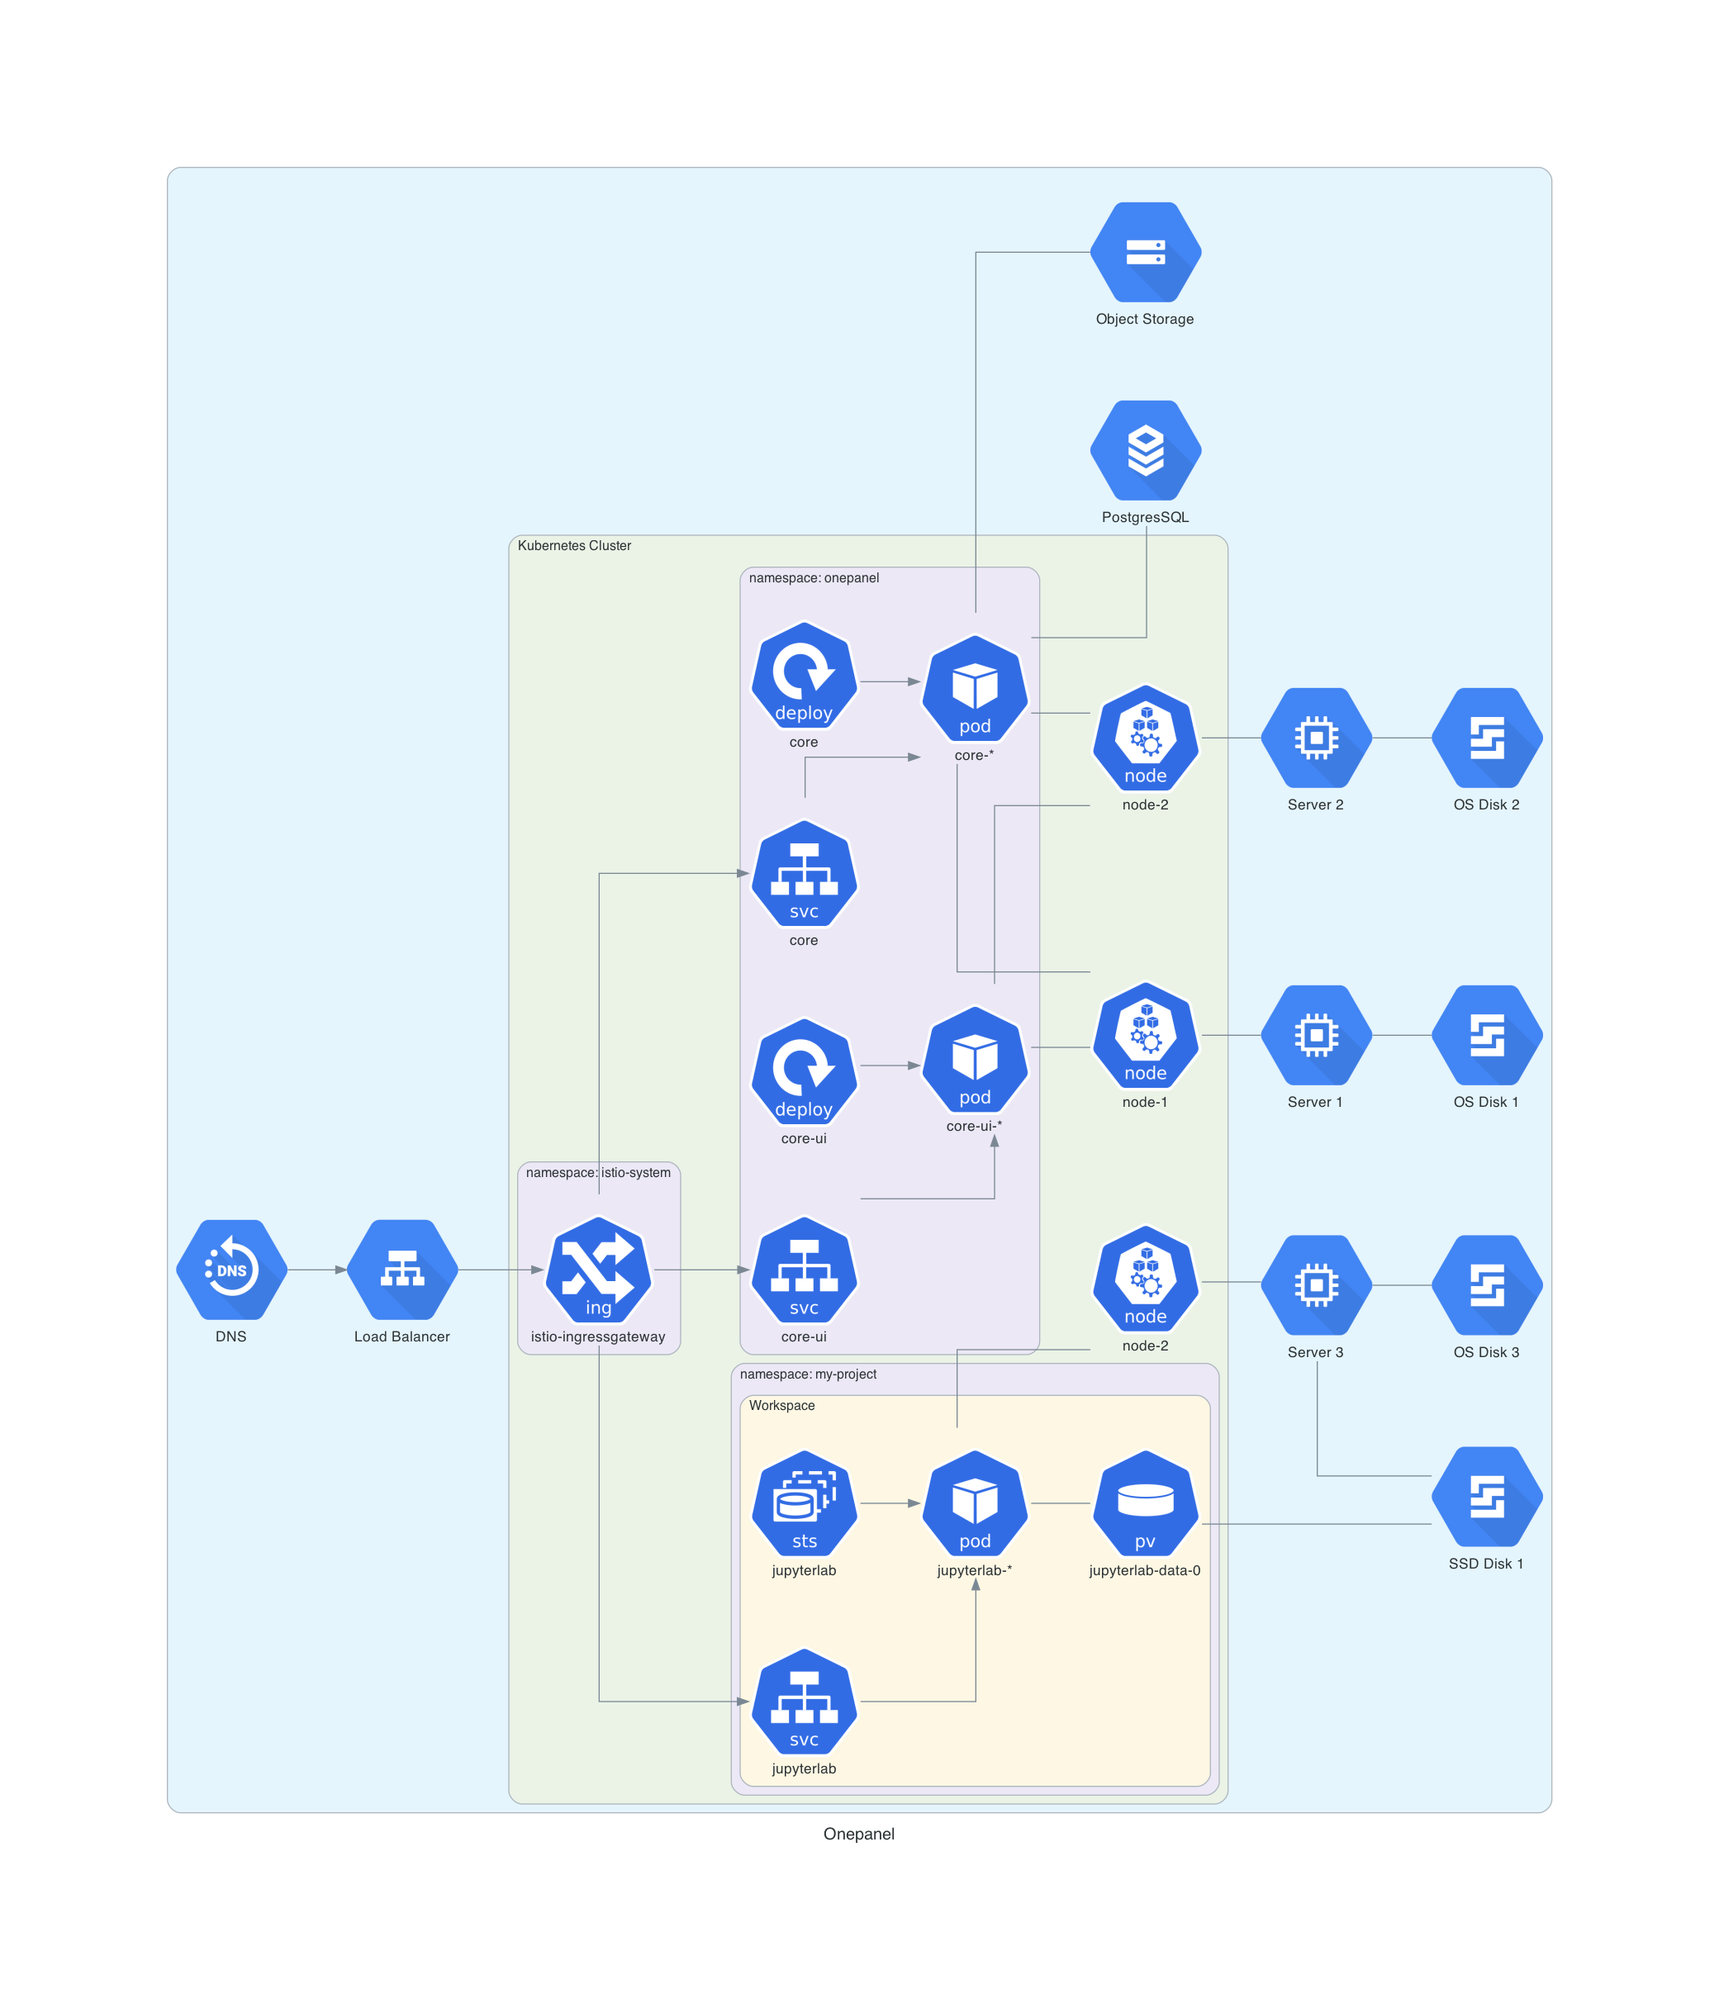
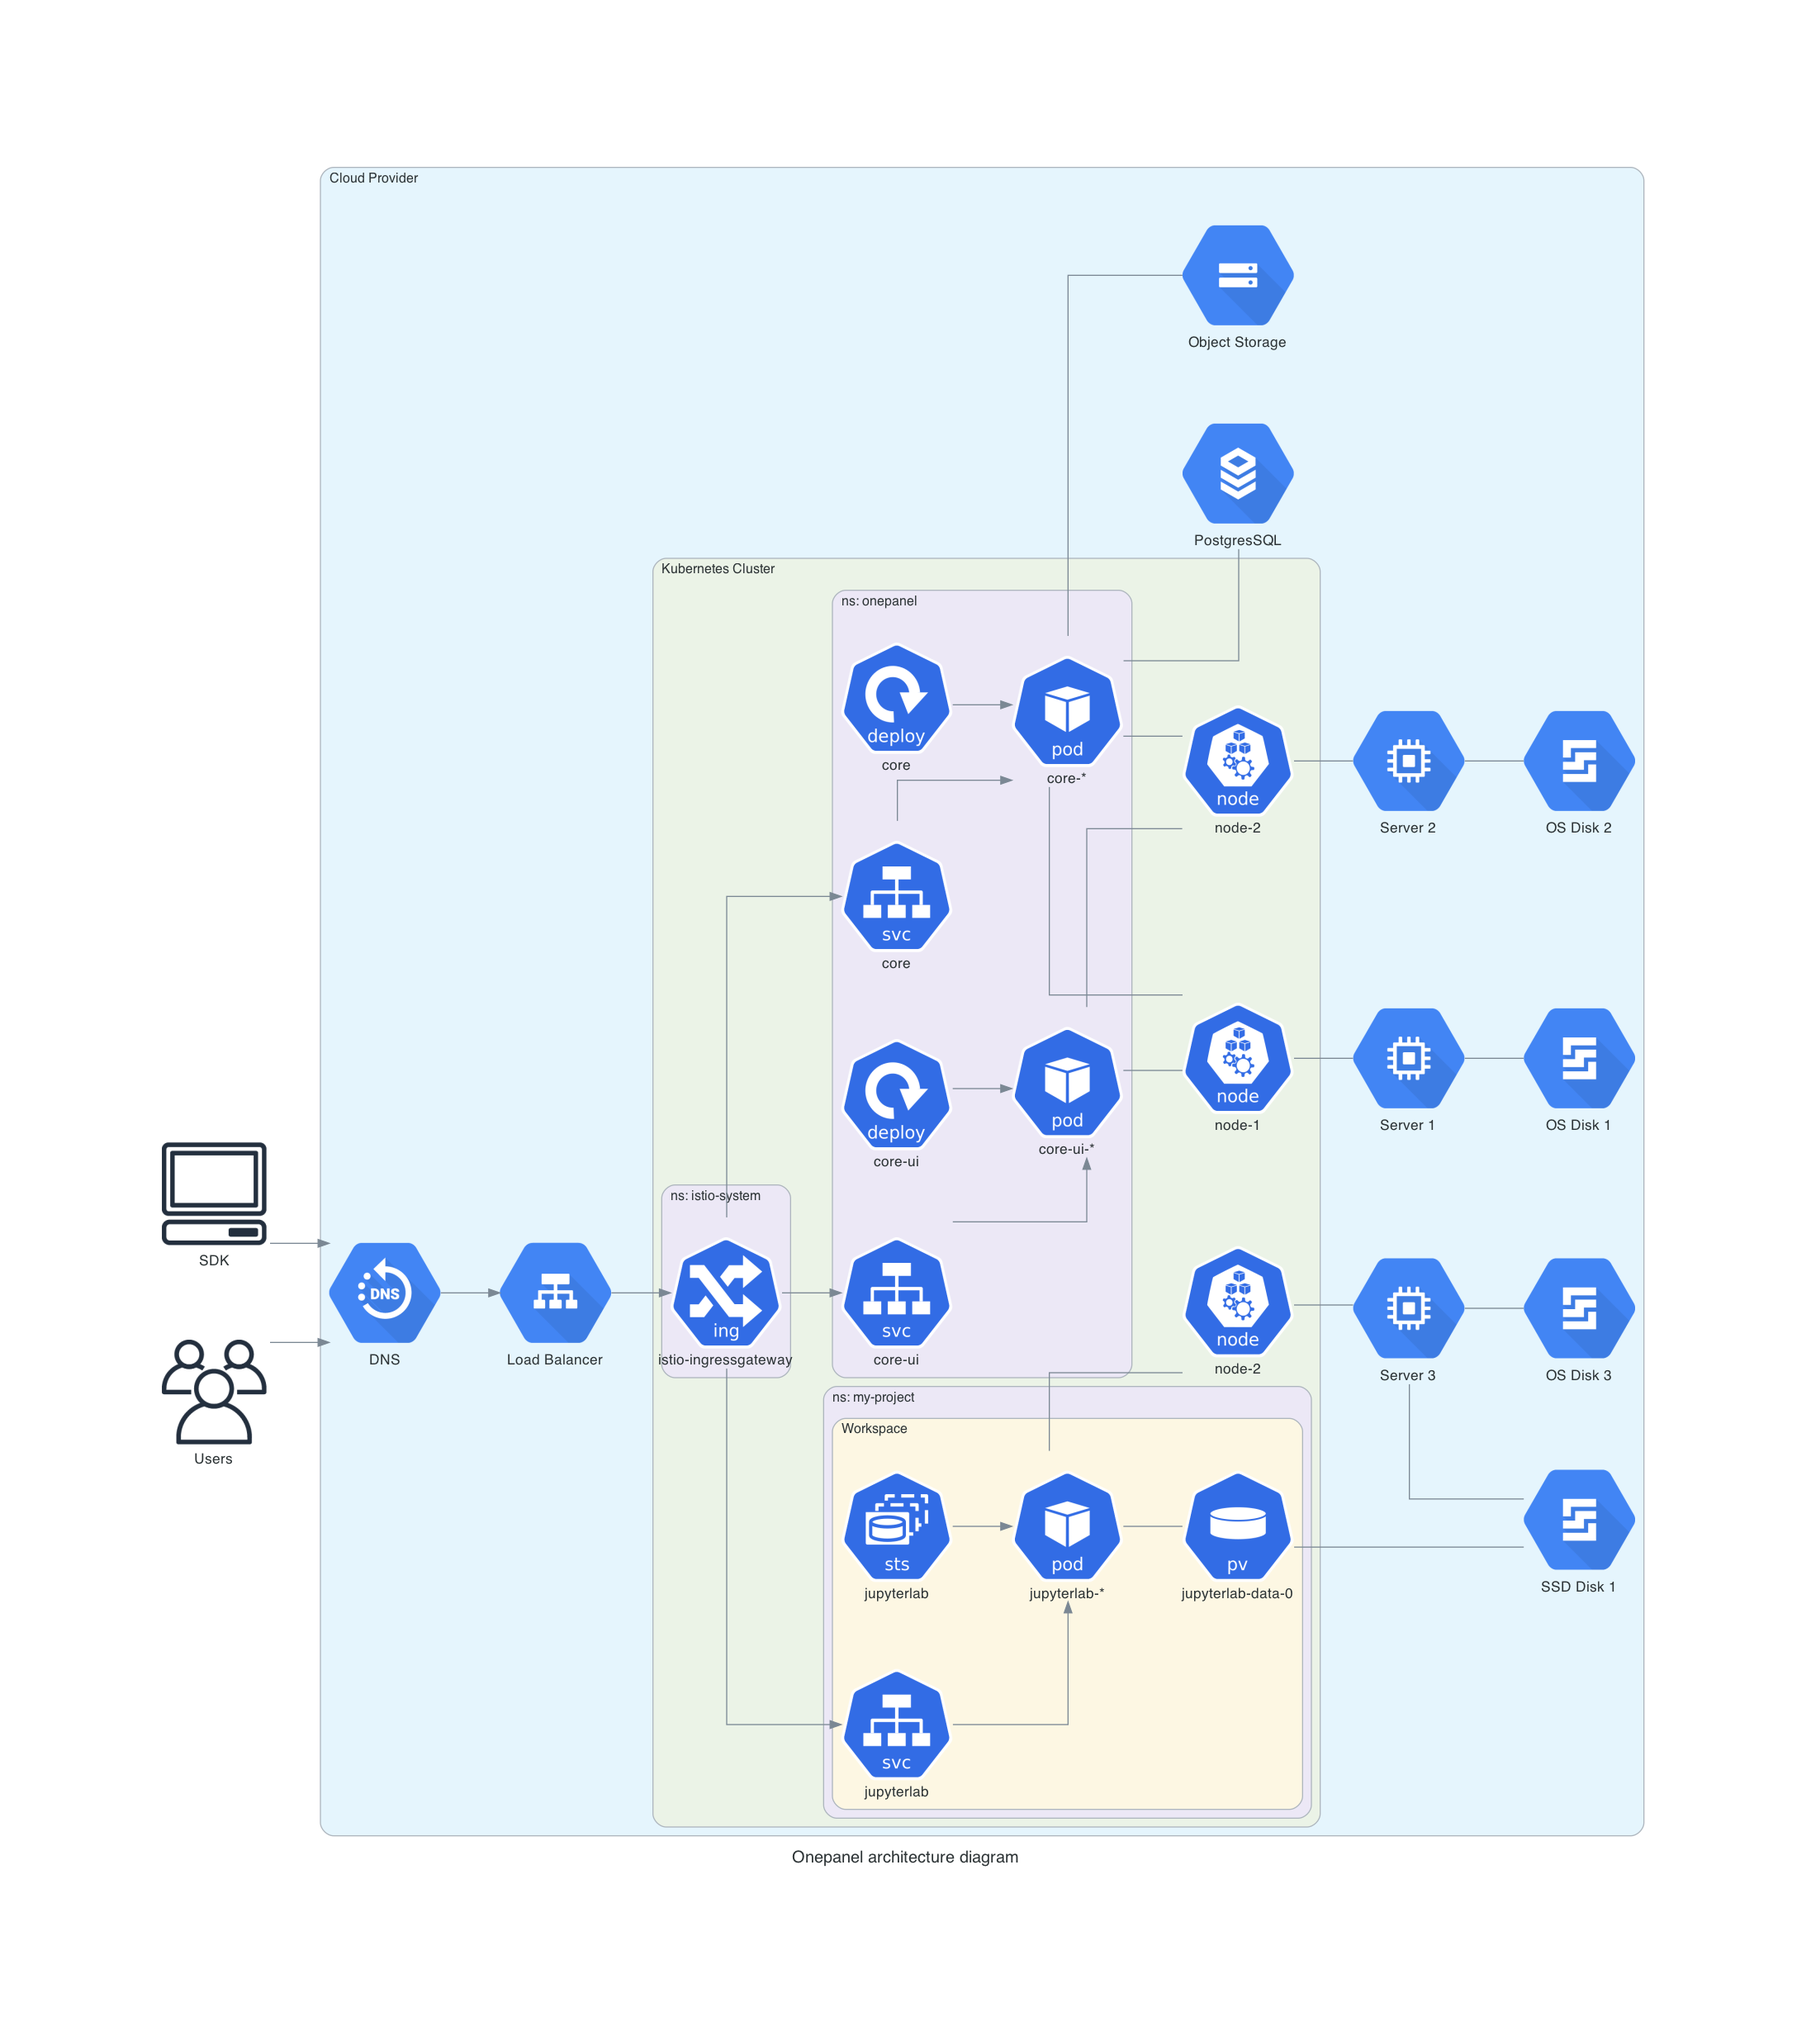
update sys diagram

diff --git a/static/diagrams/gen.py b/static/diagrams/gen.py
@@ -1,10 +1,15 @@
-from diagrams import Cluster, Diagram
+from diagrams import Cluster, Diagram, Edge
+
+
+# General
+from diagrams.onprem.client import Users, Client
 
 # K8s
 from diagrams.k8s.compute import Pod, Deployment, StatefulSet
 from diagrams.k8s.network import Ingress, Service
 from diagrams.k8s.storage import PV
 from diagrams.k8s.infra import Node
+from diagrams.k8s.podconfig import Secret
 
 # AWS
 from diagrams.aws.network import ELB, Route53
@@ -31,7 +36,7 @@ from diagrams.gcp.management import Logging
 
 def k8s(name):
     with Cluster(name):
-        with Cluster('namespace: onepanel'):
+        with Cluster('ns: onepanel'):
             svc_core = Service('core')
             pd_core = Pod('core-*')
             dep_core = Deployment('core')
@@ -44,10 +49,11 @@ def k8s(name):
             dep_core_ui >> pd_core_ui
             svc_core_ui >> pd_core_ui
         
-        with Cluster('namespace: istio-system'):
+        with Cluster('ns: istio-system'):
             ing = Ingress('istio-ingressgateway')
+            # cert = Secret('TLS')
         
-        with Cluster('namespace: my-project'):
+        with Cluster('ns: my-project'):
             with Cluster('Workspace'):
                 svc_workspace = Service('jupyterlab')
                 pd_workspace = Pod('jupyterlab-*')
@@ -57,6 +63,10 @@ def k8s(name):
                 pd_workspace - pv_workspace
                 svc_workspace >> pd_workspace
 
+        # with Cluster('ns: cert-manager'):
+        #     certmanager = Pod('cert-manager')
+
+        # certmanager >> cert
         ing >> [svc_core, svc_core_ui, svc_workspace]
 
         node_1 = Node('node-1')
@@ -70,8 +80,8 @@ def k8s(name):
     
     return node_1, node_2, node_3, ing, pd_core, pv_workspace
 
-with Diagram('Onepanel', show=False, filename='onepanel', outformat='png'):
-    with Cluster(''):
+with Diagram('Onepanel architecture diagram', show=False, filename='onepanel', outformat='png'):
+    with Cluster('Cloud Provider'):
         node_1, node_2, node_3, ing, core, pv_workspace = k8s('Kubernetes Cluster')
         instance_1 = ComputeEngine('Server 1')
         disk_1 = PersistentDisk('OS Disk 1')
@@ -92,7 +102,12 @@ with Diagram('Onepanel', show=False, filename='onepanel', outformat='png'):
         core - SQL('PostgresSQL')
 
         core - GCS('Object Storage')
-        DNS('DNS') >> LoadBalancing('Load Balancer') >> ing
+        lb = LoadBalancing('Load Balancer')
+        dns = DNS('DNS') 
+        lb >> ing
+        dns >> lb
+    
+    [Client('SDK'), Users('Users')] >> dns
 
 with Diagram('Amazon Web Services', show=False, filename='aws', outformat='png'):
     with Cluster(''):
